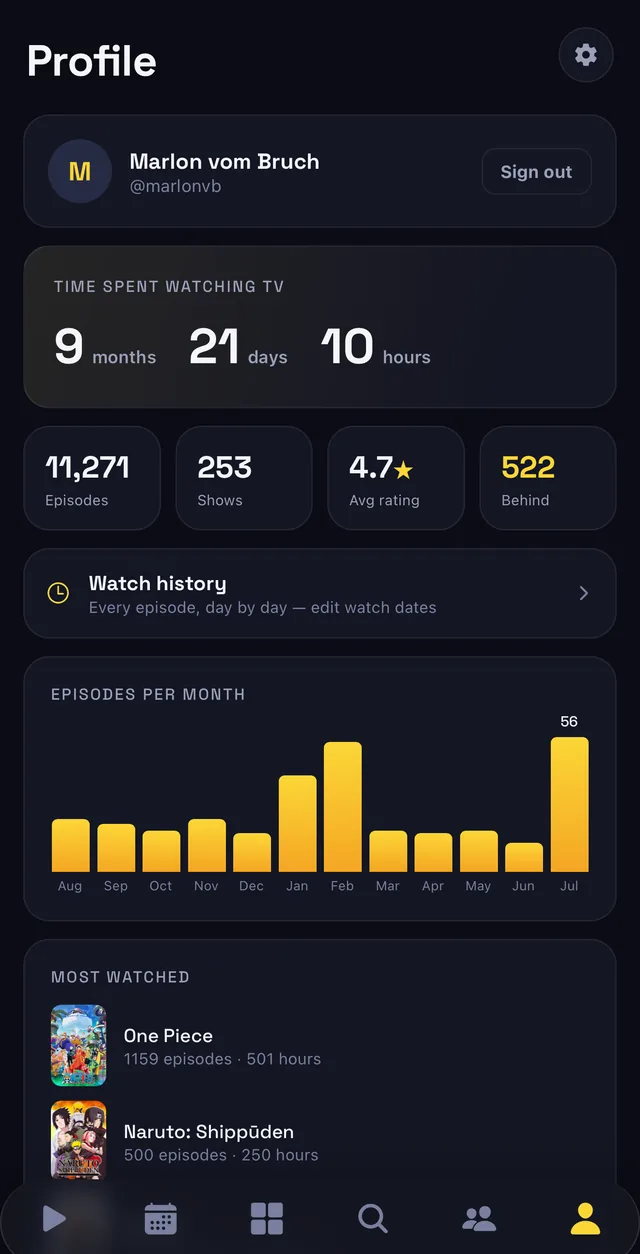
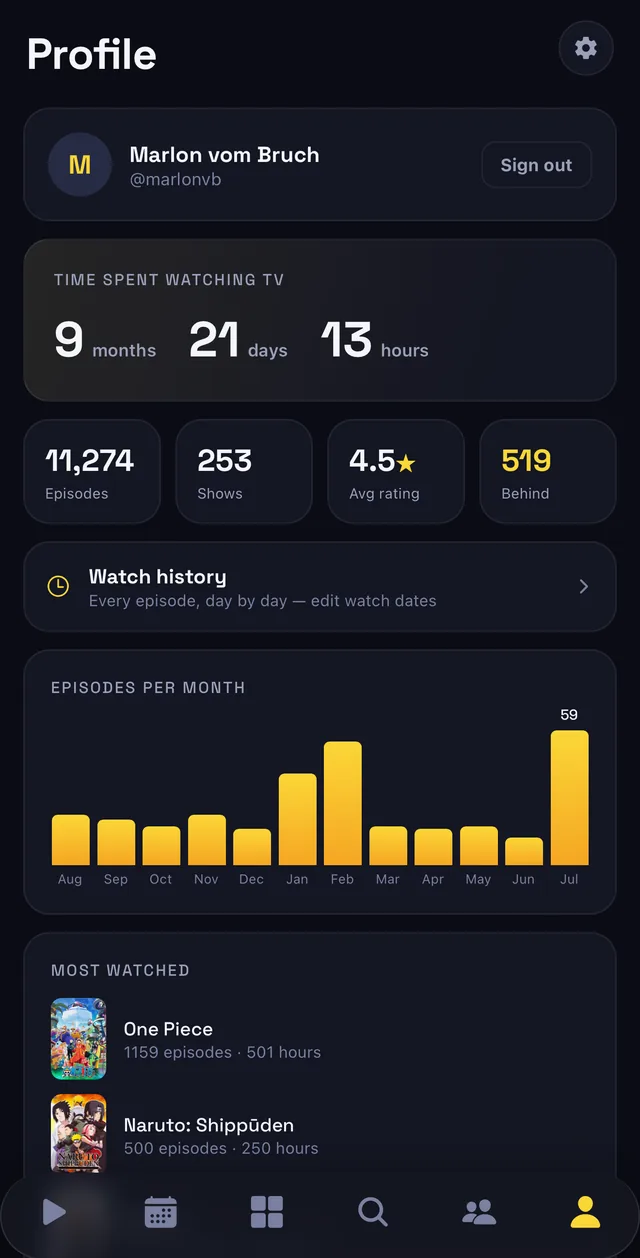
Replace the screenshots with full-resolution device captures
The previous set came through chat at whatever size survived the trip; these
are 1320x2868 straight off an iPhone 17 Pro Max, so the site now downsamples
from real pixels instead of enlarging soft ones. Same four screens, cropped
the same way: the iOS status bar off the top, everything below the floating
tab bar off the bottom, including the home indicator.

640x1254 becomes 640x1258, so the width/height attributes and the aspect note
in the stylesheet move with it. The screenshot URLs get a version query — the
filenames are unchanged and a stale cached copy of this exact set of files is
what caused the "pictures look stretched" report last time.

The Discover capture is deliberately left out. It is from a build that
predates the IMDb de-branding and still shows "9.5 IMDb" under the top-rated
row. Publishing it would put a third party's mark back on the marketing site
for a feature the app no longer presents that way.

The onboarding frames are re-cut from the same sources.

Claude-Session: https://claude.ai/code/session_01JKnjW1X5in2fGrYeHjfZFc

diff --git a/site/index.html b/site/index.html
@@ -85,9 +85,9 @@
         <div class="dev-front">
           <div class="dev-screen">
             <img
-              src="assets/shots/watch-next.webp"
+              src="assets/shots/watch-next.webp?v=2"
               width="640"
-              height="1254"
+              height="1258"
               alt="The Watch Next screen: the next unwatched episode of each show, grouped into Up Next and Haven't watched in a while, each with a tick to mark it watched."
             />
           </div>
@@ -95,7 +95,7 @@
         </div>
 
         <div class="dev-reflection" aria-hidden="true">
-          <img src="assets/shots/watch-next.webp" width="640" height="1254" alt="" />
+          <img src="assets/shots/watch-next.webp?v=2" width="640" height="1258" alt="" />
         </div>
        </div>
       </div>
@@ -109,9 +109,9 @@
         <figure class="shot reveal">
           <div class="phone">
             <img
-              src="assets/shots/library.webp"
+              src="assets/shots/library.webp?v=2"
               width="640"
-              height="1254"
+              height="1258"
               loading="lazy"
               alt="The Library screen: a poster grid of 253 shows with progress bars, a search field, and filters for Watching, Up to date and Not started."
             />
@@ -125,9 +125,9 @@
         <figure class="shot reveal">
           <div class="phone">
             <img
-              src="assets/shots/upcoming.webp"
+              src="assets/shots/upcoming.webp?v=2"
               width="640"
-              height="1254"
+              height="1258"
               loading="lazy"
               alt="The Upcoming screen in calendar mode: a month grid with a dot on every day an episode airs, and the selected day's episode listed below with its air time and network."
             />
@@ -141,11 +141,11 @@
         <figure class="shot reveal">
           <div class="phone">
             <img
-              src="assets/shots/profile.webp"
+              src="assets/shots/profile.webp?v=2"
               width="640"
-              height="1254"
+              height="1258"
               loading="lazy"
-              alt="The Profile screen: time spent watching TV shown as 9 months 21 days 10 hours, totals for episodes, shows, average rating and episodes behind, a bar chart of episodes per month, and a most-watched list."
+              alt="The Profile screen: time spent watching TV shown as 9 months 21 days 13 hours, totals for episodes, shows, average rating and episodes behind, a bar chart of episodes per month, and a most-watched list."
             />
           </div>
           <figcaption>

diff --git a/site/assets/style.css b/site/assets/style.css
@@ -361,7 +361,7 @@ img {
 
 .scene {
   /* One number drives the device, its reflection and the scene height, so they
-     can't drift apart. The screenshots are 640x1254, i.e. 1.96 tall per wide. */
+     can't drift apart. The screenshots are 640x1258, i.e. 1.97 tall per wide. */
   --dev-w: min(286px, 74%);
   --dev-bezel: 10px;
   --dev-radius: 42px;

diff --git a/mobile/components/Onboarding.tsx b/mobile/components/Onboarding.tsx
@@ -499,7 +499,7 @@ function DeviceShot({
     <Animated.View
       style={{
         height,
-        aspectRatio: 320 / 627,
+        aspectRatio: 320 / 629,
         borderRadius: 30,
         padding: 7,
         backgroundColor: "#181c33",
